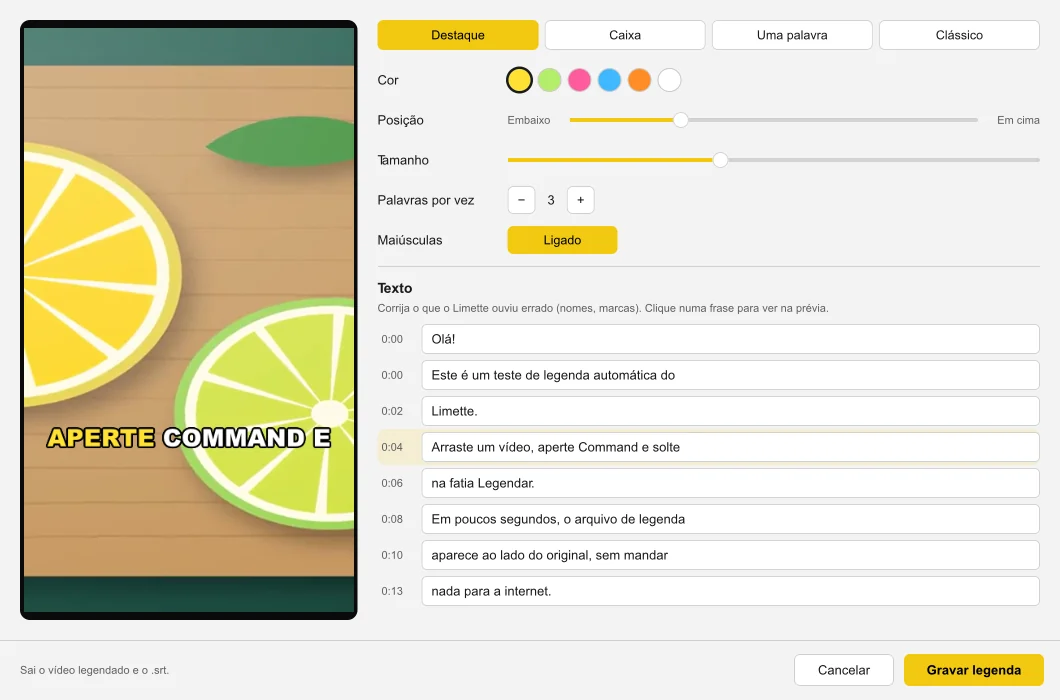
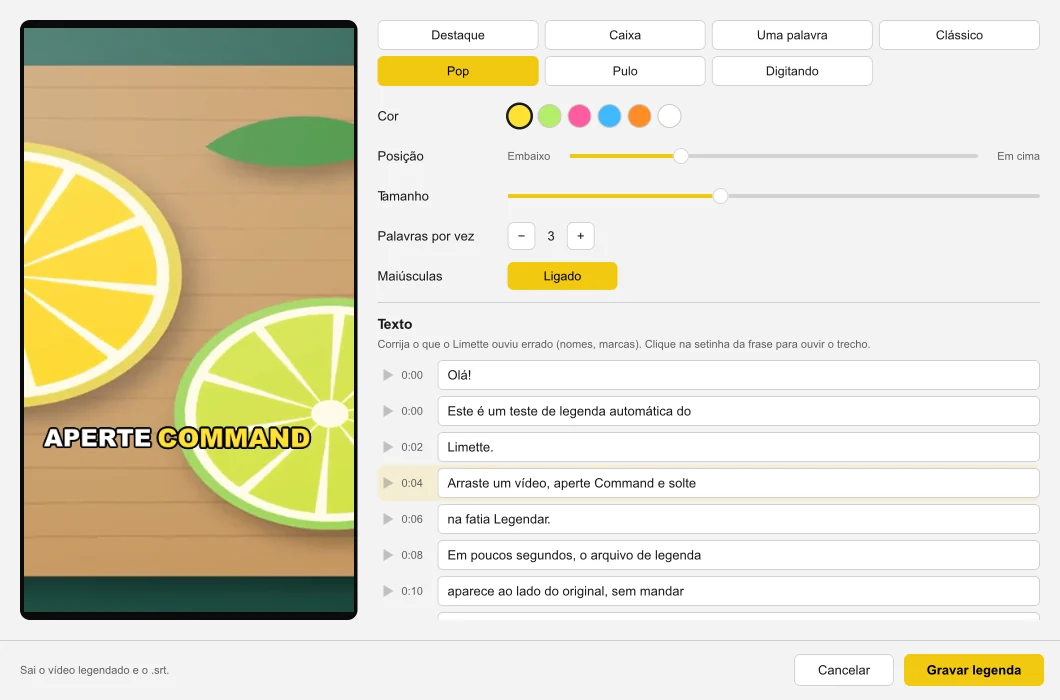
Legenda: estilos animados e miniplayer

diff --git a/index.html b/index.html
@@ -334,7 +334,7 @@ footer .flinks a:hover{color:var(--ink)}
       <li>Juntar, separar e comprimir</li>
       <li>Para Word, Excel, PowerPoint, EPUB, Markdown ou imagens até 300 DPI</li></ul></div>
     <div class="card"><div class="ico"><svg viewBox="0 0 24 24" fill="none" stroke="currentColor" stroke-width="2" stroke-linecap="round" stroke-linejoin="round" aria-hidden="true"><rect x="3" y="5" width="18" height="14" rx="3"/><path d="m10 9 5 3-5 3z"/></svg></div><span class="tag">Vídeo</span><h3>Legende, corte, acelere</h3><ul>
-      <li>Legenda automática estilo TikTok, ouvida no próprio computador</li>
+      <li>Legenda automática estilo TikTok, ouvida no próprio computador, com 7 estilos (3 animados)</li>
       <li>MP4, MOV, WebM, MKV, AVI, WMV e GIF</li>
       <li>Cortar, dividir, juntar e enquadrar em 9:16</li>
       <li>Velocidade de 0,25× a 4×</li>
@@ -469,7 +469,7 @@ footer .flinks a:hover{color:var(--ink)}
   <div class="faqgrid">
   <div class="faq">
     <details><summary>Precisa de internet?</summary><p>Não. Todas as conversões e ferramentas rodam no seu computador. A internet só é usada para baixar, uma vez, o modelo de voz da legenda automática e, no Windows fora da loja, para procurar atualização.</p></details>
-    <details><summary>Como funciona a legenda automática?</summary><p>Arraste um vídeo, aperte ⌘ (Ctrl no Windows) e solte em Legendar. O Limette ouve a fala no próprio computador, com o whisper, e abre uma janela para escolher o estilo (Destaque, Caixa, Uma palavra ou Clássico), a cor, a posição e o tamanho, e corrigir alguma palavra. Sai o vídeo legendado e o arquivo .srt. Na primeira vez, você escolhe o modelo de voz: Rápido (148 MB) ou Melhor (574 MB).</p></details>
+    <details><summary>Como funciona a legenda automática?</summary><p>Arraste um vídeo, aperte ⌘ (Ctrl no Windows) e solte em Legendar. O Limette ouve a fala no próprio computador, com o whisper, e abre uma janela para escolher o estilo (Destaque, Caixa, Uma palavra, Clássico ou os animados Pop, Pulo e Digitando), a cor, a posição e o tamanho, e corrigir alguma palavra. Cada frase tem um ▶ para ouvir o trecho antes de corrigir. Sai o vídeo legendado e o arquivo .srt. Na primeira vez, você escolhe o modelo de voz: Rápido (148 MB) ou Melhor (574 MB).</p></details>
     <details><summary>Funciona arrastando de qualquer lugar?</summary><p>Sim: do Finder ou Explorador, da mesa, do navegador, do e-mail. Basta começar a arrastar e apertar a tecla antes de soltar. A roda também aceita as teclas 1 a 9, as setas, Enter e Esc.</p></details>
     <details><summary>Onde fica o arquivo novo?</summary><p>Ao lado do original, com outro nome. Se a pasta não deixar gravar, ele vai para Downloads. O original nunca é alterado.</p></details>
     <details><summary>Preciso instalar mais alguma coisa?</summary><p>Para vídeo e áudio o Limette usa o ffmpeg; no Windows ele mesmo instala quando precisa. Para DWG e STEP existe um gerenciador de extras que baixa o que falta com uma barra de progresso.</p></details>
@@ -545,7 +545,7 @@ draw();
 // galeria de telas
 const TOUR = {
   "Vídeo": [
-    ["video-legendar", "Legendar", "Legenda automática estilo TikTok: escolha o estilo, a cor e a posição, e corrija o texto antes de gravar.", "Legendar — limoes.mp4"],
+    ["video-legendar", "Legendar", "Legenda automática estilo TikTok, com estilos animados: escolha o estilo, a cor e a posição, ouça cada frase e corrija o texto antes de gravar.", "Legendar — limoes.mp4"],
     ["video-cortar", "Cortar", "Escolha o começo e o fim vendo o quadro de cada ponto.", "Cortar — limoes-video.mp4"],
     ["video-enquadrar", "Enquadrar", "Recorte para 9:16, 1:1, 4:5 e outros, arrastando no quadro.", "Enquadrar — limoes-video.mp4"],
     ["video-ocultar", "Ocultar áreas", "Desfoque, pixele ou tarje partes do vídeo, cada uma no seu trecho.", "Ocultar — limoes-video.mp4"],
